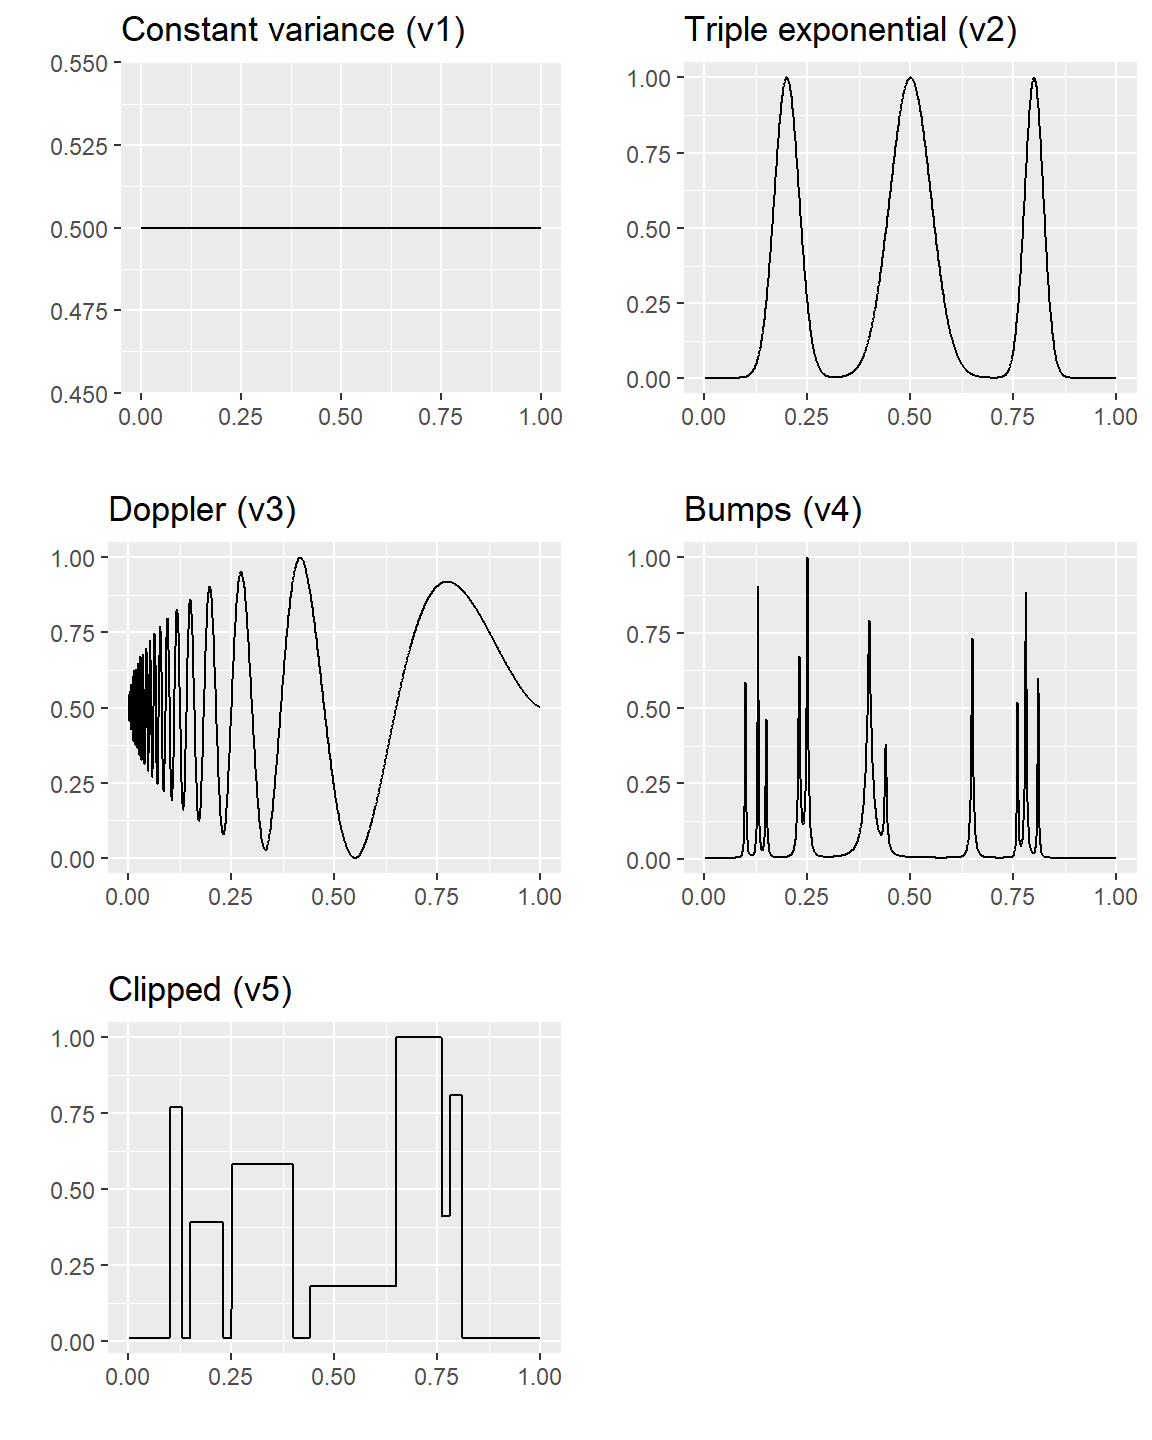
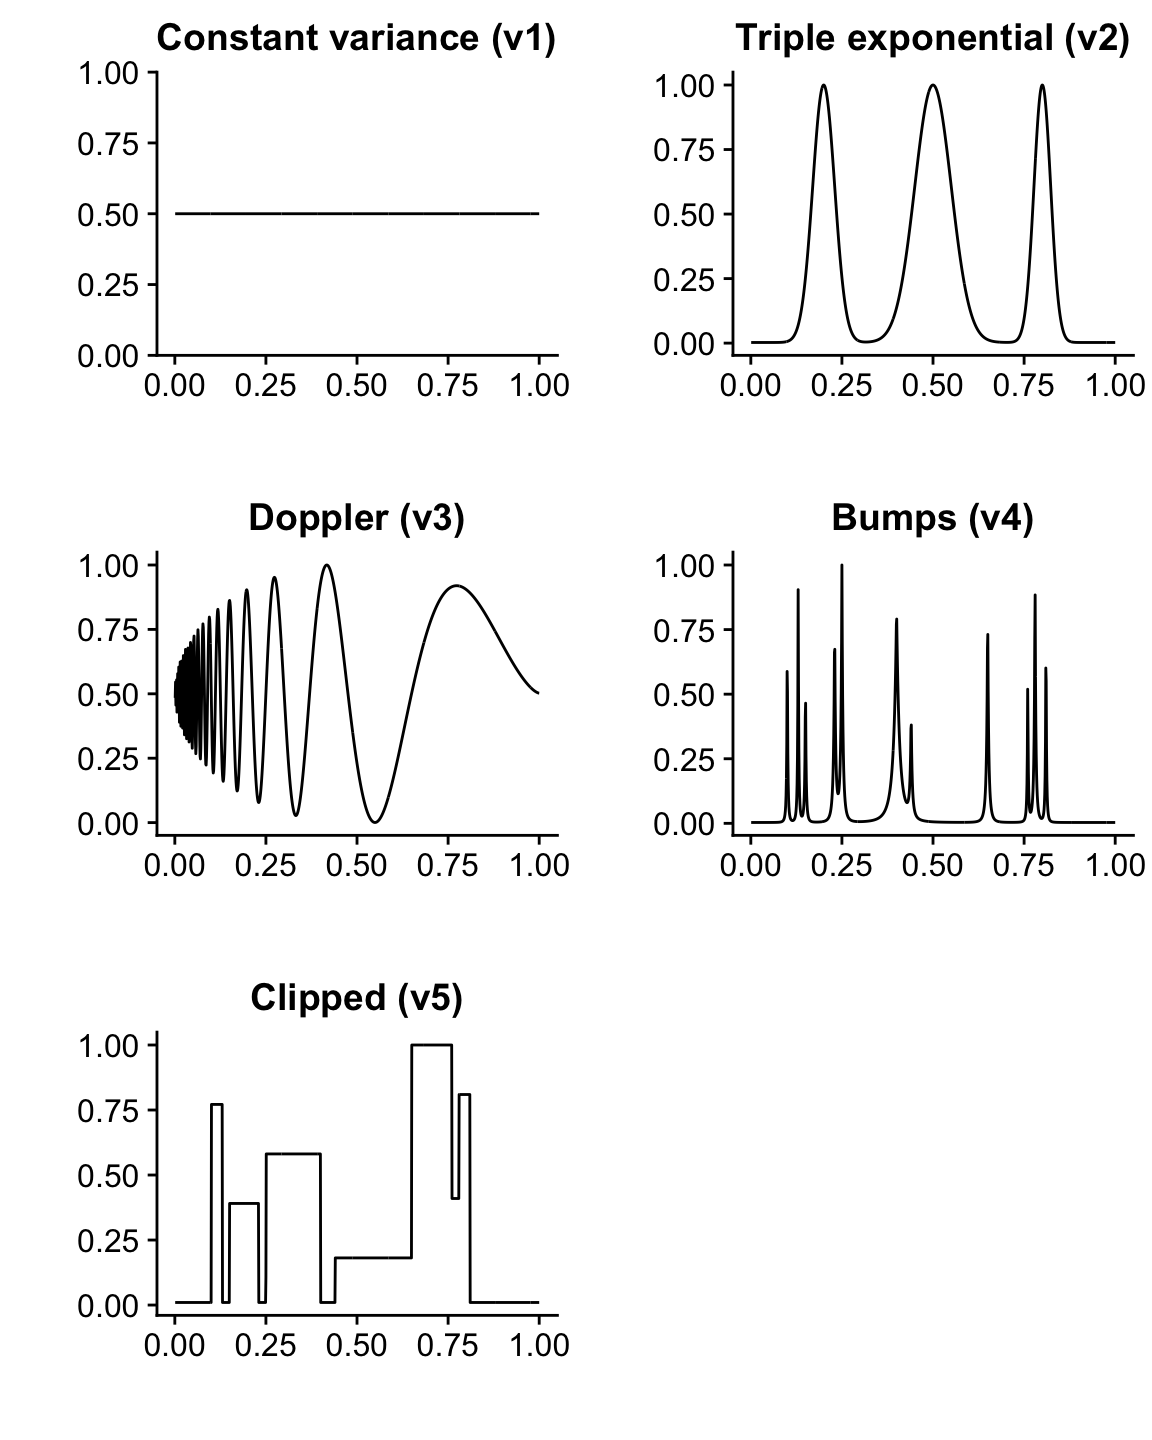
Build site.

diff --git a/docs/gaussian_signals.html b/docs/gaussian_signals.html
@@ -328,7 +328,7 @@ div.section {
 <div class="tab-content">
 <div id="summary" class="tab-pane fade in active">
 <p>
-<strong>Last updated:</strong> 2019-10-27
+<strong>Last updated:</strong> 2019-11-12
 </p>
 <p>
 <strong>Checks:</strong> <span class="glyphicon glyphicon-ok text-success" aria-hidden="true"></span> 7 <span class="glyphicon glyphicon-exclamation-sign text-danger" aria-hidden="true"></span> 0
@@ -338,7 +338,7 @@ div.section {
 </p>
 <p>
 This reproducible <a href="http://rmarkdown.rstudio.com">R Markdown</a> analysis was created with <a
-  href="https://github.com/jdblischak/workflowr">workflowr</a> (version 1.4.0). The <em>Checks</em> tab describes the reproducibility checks that were applied when the results were created. The <em>Past versions</em> tab lists the development history.
+  href="https://github.com/jdblischak/workflowr">workflowr</a> (version 1.5.0). The <em>Checks</em> tab describes the reproducibility checks that were applied when the results were created. The <em>Past versions</em> tab lists the development history.
 </p>
 <hr>
 </div>
@@ -419,21 +419,46 @@ This reproducible <a href="http://rmarkdown.rstudio.com">R Markdown</a> analysis
 <div class="panel panel-default">
 <div class="panel-heading">
 <p class="panel-title">
-<a data-toggle="collapse" data-parent="#workflowr-checks" href="#strongRepositoryversionstrongahrefhttpsgithubcomstephenslabsmashpapertreee574eec52585f7a5b7c51d2fee5affa76127cf5ftargetblanke574eeca"> <span class="glyphicon glyphicon-ok text-success" aria-hidden="true"></span> <strong>Repository version:</strong> <a href="https://github.com/stephenslab/smash-paper/tree/e574eec52585f7a5b7c51d2fee5affa76127cf5f" target="_blank">e574eec</a> </a>
+<a data-toggle="collapse" data-parent="#workflowr-checks" href="#strongRepositoryversionstrongahrefhttpsgithubcomstephenslabsmashpapertree70f9238990e340e0b4520ec9e69ce609a825480atargetblank70f9238a"> <span class="glyphicon glyphicon-ok text-success" aria-hidden="true"></span> <strong>Repository version:</strong> <a href="https://github.com/stephenslab/smash-paper/tree/70f9238990e340e0b4520ec9e69ce609a825480a" target="_blank">70f9238</a> </a>
 </p>
 </div>
[2 lines of base64/hex data omitted]
 <div class="panel-body">
 <p>
 Great! You are using Git for version control. Tracking code development and connecting the code version to the results is critical for reproducibility. The version displayed above was the version of the Git repository at the time these results were generated. <br><br> Note that you need to be careful to ensure that all relevant files for the analysis have been committed to Git prior to generating the results (you can use <code>wflow_publish</code> or <code>wflow_git_commit</code>). workflowr only checks the R Markdown file, but you know if there are other scripts or data files that it depends on. Below is the status of the Git repository when the results were generated:
 </p>
 <pre><code>
-Untracked files:
-    Untracked:  .Rhistory
-    Untracked:  .Rproj.user/
+Ignored files:
+    Ignored:    dsc/code/Wavelab850/MEXSource/CPAnalysis.mexmac
+    Ignored:    dsc/code/Wavelab850/MEXSource/DownDyadHi.mexmac
+    Ignored:    dsc/code/Wavelab850/MEXSource/DownDyadLo.mexmac
+    Ignored:    dsc/code/Wavelab850/MEXSource/FAIPT.mexmac
+    Ignored:    dsc/code/Wavelab850/MEXSource/FCPSynthesis.mexmac
+    Ignored:    dsc/code/Wavelab850/MEXSource/FMIPT.mexmac
+    Ignored:    dsc/code/Wavelab850/MEXSource/FWPSynthesis.mexmac
+    Ignored:    dsc/code/Wavelab850/MEXSource/FWT2_PO.mexmac
+    Ignored:    dsc/code/Wavelab850/MEXSource/FWT_PBS.mexmac
+    Ignored:    dsc/code/Wavelab850/MEXSource/FWT_PO.mexmac
+    Ignored:    dsc/code/Wavelab850/MEXSource/FWT_TI.mexmac
+    Ignored:    dsc/code/Wavelab850/MEXSource/IAIPT.mexmac
+    Ignored:    dsc/code/Wavelab850/MEXSource/IMIPT.mexmac
+    Ignored:    dsc/code/Wavelab850/MEXSource/IWT2_PO.mexmac
+    Ignored:    dsc/code/Wavelab850/MEXSource/IWT_PBS.mexmac
+    Ignored:    dsc/code/Wavelab850/MEXSource/IWT_PO.mexmac
+    Ignored:    dsc/code/Wavelab850/MEXSource/IWT_TI.mexmac
+    Ignored:    dsc/code/Wavelab850/MEXSource/LMIRefineSeq.mexmac
+    Ignored:    dsc/code/Wavelab850/MEXSource/MedRefineSeq.mexmac
+    Ignored:    dsc/code/Wavelab850/MEXSource/UpDyadHi.mexmac
+    Ignored:    dsc/code/Wavelab850/MEXSource/UpDyadLo.mexmac
+    Ignored:    dsc/code/Wavelab850/MEXSource/WPAnalysis.mexmac
+    Ignored:    dsc/code/Wavelab850/MEXSource/dct_ii.mexmac
+    Ignored:    dsc/code/Wavelab850/MEXSource/dct_iii.mexmac
+    Ignored:    dsc/code/Wavelab850/MEXSource/dct_iv.mexmac
+    Ignored:    dsc/code/Wavelab850/MEXSource/dst_ii.mexmac
+    Ignored:    dsc/code/Wavelab850/MEXSource/dst_iii.mexmac
 
-Unstaged changes:
-    Modified:   smash-paper.Rproj
+Untracked files:
+    Untracked:  files.txt
 
 </code></pre>
 <p>
@@ -472,6 +497,40 @@ Message
 </tr>
 </thead>
 <tbody>
+<tr>
+<td>
+Rmd
+</td>
+<td>
+<a href="https://github.com/stephenslab/smash-paper/blob/70f9238990e340e0b4520ec9e69ce609a825480a/analysis/gaussian_signals.Rmd" target="_blank">70f9238</a>
+</td>
+<td>
+Peter Carbonetto
+</td>
+<td>
+2019-11-12
+</td>
+<td>
+wflow_publish(“gaussian_signals.Rmd”)
+</td>
+</tr>
+<tr>
+<td>
+html
+</td>
+<td>
+<a href="https://rawcdn.githack.com/stephenslab/smash-paper/f0221c57754f27ee83db649f39a808895e4c1294/docs/gaussian_signals.html" target="_blank">f0221c5</a>
+</td>
+<td>
+Zhengrong Xing
+</td>
+<td>
+2019-10-28
+</td>
+<td>
+address some reviewer comments
+</td>
+</tr>
 <tr>
 <td>
 html
@@ -521,6 +580,23 @@ Peter Carbonetto
 </td>
 <td>
 Changed title of gaussian_signals.Rmd.
+</td>
+</tr>
+<tr>
+<td>
+Rmd
+</td>
+<td>
+<a href="https://github.com/stephenslab/smash-paper/blob/4a35339bf2718a92dc824f0def668cb771a693ec/analysis/gaussian_signals.Rmd" target="_blank">4a35339</a>
+</td>
+<td>
+Peter Carbonetto
+</td>
+<td>
+2018-12-04
+</td>
+<td>
+wflow_publish(c(“gaussian_signals.Rmd”, “index.Rmd”))
 </td>
 </tr>
 <tr>
@@ -827,7 +903,8 @@ var5 = var5/max(var5)</code></pre>
 <div id="plot-the-signal-means" class="section level2">
 <h2>Plot the signal means</h2>
 <p>These plots show each of the mean functions used in generating the Gaussian data sets.</p>
-<pre class="r"><code>plot_grid(qplot(t,mu.sp,  geom=&quot;line&quot;,xlab=&quot;&quot;,ylab=&quot;&quot;,main=&quot;Spikes (sp)&quot;),
+<pre class="r"><code>theme_set(theme_cowplot())
+plot_grid(qplot(t,mu.sp,  geom=&quot;line&quot;,xlab=&quot;&quot;,ylab=&quot;&quot;,main=&quot;Spikes (sp)&quot;),
           qplot(t,mu.bump,geom=&quot;line&quot;,xlab=&quot;&quot;,ylab=&quot;&quot;,main=&quot;Bumps (bump)&quot;),
           qplot(t,mu.blk, geom=&quot;line&quot;,xlab=&quot;&quot;,ylab=&quot;&quot;,main=&quot;Blocks (blk)&quot;),
           qplot(t,mu.ang, geom=&quot;line&quot;,xlab=&quot;&quot;,ylab=&quot;&quot;,main=&quot;Angles (ang)&quot;),
@@ -858,6 +935,17 @@ Date
 </tr>
 </thead>
 <tbody>
+<tr>
+<td>
+<a href="https://github.com/stephenslab/smash-paper/blob/f0221c57754f27ee83db649f39a808895e4c1294/docs/figure/gaussian_signals.Rmd/plot-mean-functions-1.png" target="_blank">f0221c5</a>
+</td>
+<td>
+Zhengrong Xing
+</td>
+<td>
+2019-10-28
+</td>
+</tr>
 <tr>
 <td>
 <a href="https://github.com/stephenslab/smash-paper/blob/1fe523e244f7a10f4d4f375c0a997d437d5e1a17/docs/figure/gaussian_signals.Rmd/plot-mean-functions-1.png" target="_blank">1fe523e</a>
@@ -931,6 +1019,17 @@ Date
 <tbody>
 <tr>
 <td>
+<a href="https://github.com/stephenslab/smash-paper/blob/f0221c57754f27ee83db649f39a808895e4c1294/docs/figure/gaussian_signals.Rmd/plot-variance-functions-1.png" target="_blank">f0221c5</a>
+</td>
+<td>
+Zhengrong Xing
+</td>
+<td>
+2019-10-28
+</td>
+</tr>
+<tr>
+<td>
 <a href="https://github.com/stephenslab/smash-paper/blob/abc74e5dfa683eba26cee0d09abfebbdf053413c/docs/figure/gaussian_signals.Rmd/plot-variance-functions-1.png" target="_blank">abc74e5</a>
 </td>
 <td>
@@ -963,35 +1062,35 @@ Peter Carbonetto
 </p>
 <div id="workflowr-sessioninfo" class="collapse">
 <pre class="r"><code>sessionInfo()
-# R version 3.6.1 (2019-07-05)
-# Platform: x86_64-w64-mingw32/x64 (64-bit)
-# Running under: Windows 10 x64 (build 17134)
+# R version 3.4.3 (2017-11-30)
+# Platform: x86_64-apple-darwin15.6.0 (64-bit)
+# Running under: macOS High Sierra 10.13.6
 # 
 # Matrix products: default
+# BLAS: /Library/Frameworks/R.framework/Versions/3.4/Resources/lib/libRblas.0.dylib
+# LAPACK: /Library/Frameworks/R.framework/Versions/3.4/Resources/lib/libRlapack.dylib
 # 
 # locale:
-# [1] LC_COLLATE=English_United States.1252 
-# [2] LC_CTYPE=English_United States.1252   
-# [3] LC_MONETARY=English_United States.1252
-# [4] LC_NUMERIC=C                          
-# [5] LC_TIME=English_United States.1252    
+# [1] en_US.UTF-8/en_US.UTF-8/en_US.UTF-8/C/en_US.UTF-8/en_US.UTF-8
 # 
 # attached base packages:
 # [1] stats     graphics  grDevices utils     datasets  methods   base     
 # 
 # other attached packages:
-# [1] cowplot_1.0.0 ggplot2_3.2.1
+# [1] cowplot_0.9.4 ggplot2_3.2.0
 # 
 # loaded via a namespace (and not attached):
-#  [1] Rcpp_1.0.2       knitr_1.25       whisker_0.4      magrittr_1.5    
-#  [5] workflowr_1.4.0  munsell_0.5.0    colorspace_1.4-1 rlang_0.4.0     
-#  [9] stringr_1.4.0    tools_3.6.1      grid_3.6.1       gtable_0.3.0    
-# [13] xfun_0.10        withr_2.1.2      git2r_0.26.1     htmltools_0.4.0 
-# [17] yaml_2.2.0       lazyeval_0.2.2   rprojroot_1.3-2  digest_0.6.21   
-# [21] tibble_2.1.3     crayon_1.3.4     fs_1.3.1         glue_1.3.1      
-# [25] evaluate_0.14    rmarkdown_1.16   labeling_0.3     stringi_1.4.3   
-# [29] compiler_3.6.1   pillar_1.4.2     scales_1.0.0     backports_1.1.5 
-# [33] pkgconfig_2.0.3</code></pre>
+#  [1] Rcpp_1.0.1       compiler_3.4.3   pillar_1.3.1     later_0.8.0     
+#  [5] git2r_0.26.1     plyr_1.8.4       workflowr_1.5.0  tools_3.4.3     
+#  [9] digest_0.6.18    evaluate_0.13    tibble_2.1.1     gtable_0.2.0    
+# [13] pkgconfig_2.0.2  rlang_0.3.1      yaml_2.2.0       xfun_0.7        
+# [17] withr_2.1.2.9000 stringr_1.4.0    dplyr_0.8.0.1    knitr_1.23      
+# [21] fs_1.2.7         rprojroot_1.3-2  grid_3.4.3       tidyselect_0.2.5
+# [25] glue_1.3.1       R6_2.4.0         rmarkdown_1.16   purrr_0.2.5     
+# [29] magrittr_1.5     whisker_0.3-2    backports_1.1.2  scales_0.5.0    
+# [33] promises_1.0.1   htmltools_0.3.6  assertthat_0.2.1 colorspace_1.4-0
+# [37] httpuv_1.5.0     labeling_0.3     stringi_1.4.3    lazyeval_0.2.1  
+# [41] munsell_0.4.3    crayon_1.3.4</code></pre>
 </div>
 </div>
 
